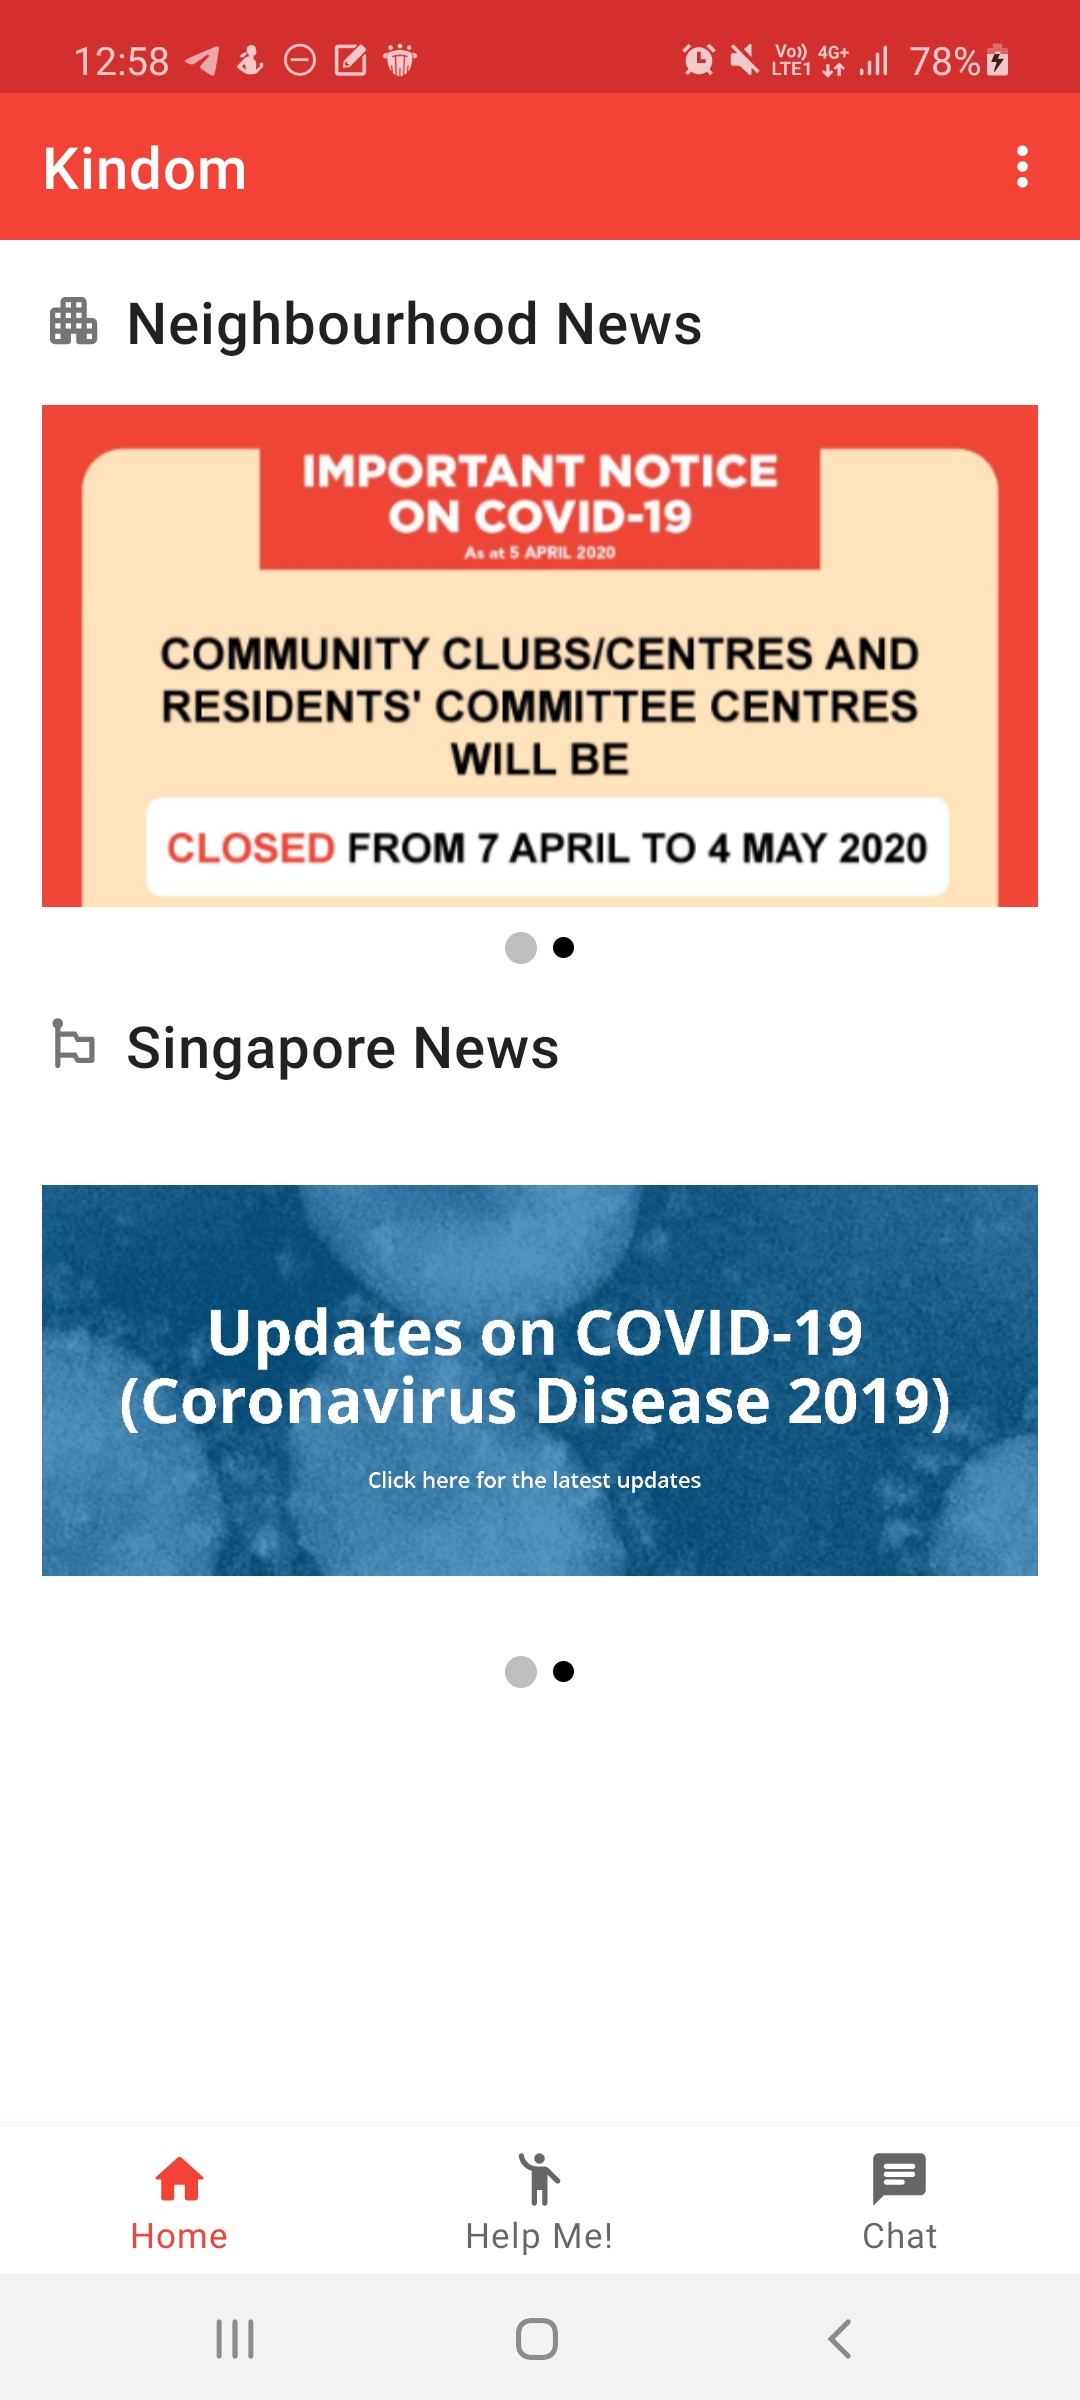
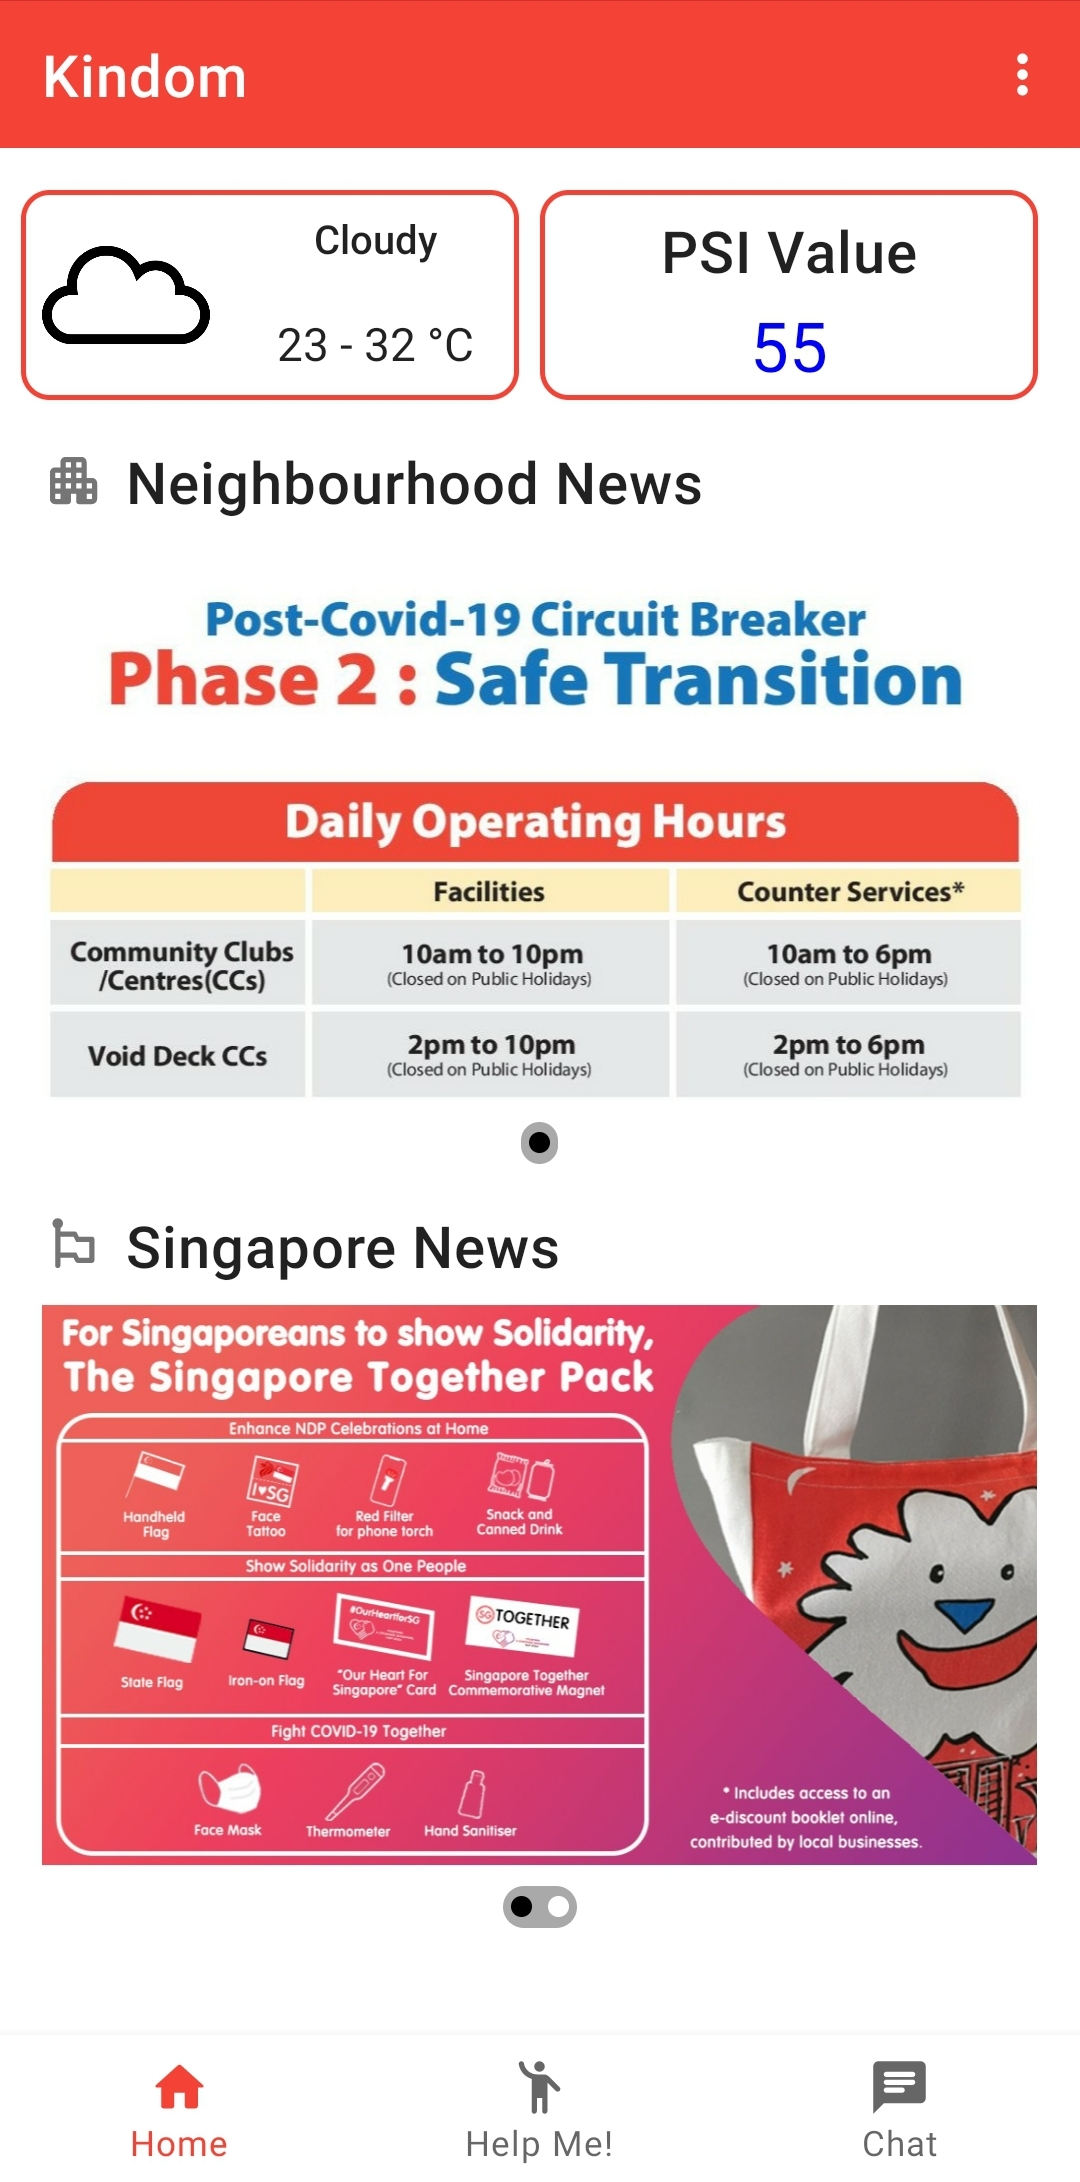
Edit README and screenshots

diff --git a/README.md b/README.md
@@ -9,17 +9,20 @@
 After a long hard day in school, you walk wearily to the lift lobby of your flat. As you and the other residents enter the lift, an eerie silence falls upon the four walls. Everyone is glued to their phone screens and the only sound audible is the whirring of the lift machinery. As you step home, you realise that you have forgotten to get the eggs your mum has tasked you to buy.  Dread takes over as you imagine another trip down the grocery store with long queues caused by the COVID-19 pandemic. Just then, you remember that Uncle Chen from next door has gone to the supermarket just as you left. Maybe he can help you get the eggs?
 
 **User stories**:
-1. As a helpful resident, I want to be able to assist my fellow neighbours in simple tasks.
-2. As an engaged citizen, I want to be kept updated on the happenings of my community.
-3. As an administrator, I want to be able to keep track of any disputes arising from the application and also push out timely announcements to all users.
+1. As a helpful resident, I want to be able to assist my fellow neighbours in simple tasks. The Help Me feature of the app allows users to request and offer help from other residents.
+2. As an engaged citizen, I want to be kept updated on the happenings of my community. The Home page of the app shows the news occurring in the neighbourhood and in Singapore.
+3. As an administrator, I want to be able to push out timely announcements to all users by adding / deleting news in the app and also keep track of any disputes arising from the application by managing reported Help Me posts.
 
 ## Features Developed
 
-#### 1. Register / Sign-in page
+#### 1. Registration / Sign-in
 
 When the user first launches the app, he/she is brought to the main page where the user can sign in with the text fields provided.
 
-<img src="https://github.com/SONGYI98/Kindom/blob/master/screenshots/1%20-%20Main%20%20Sign-in%20page.jpg" width="256"/>
+<details>
+  <summary>*View image of main page*</summary>
+  <img src="https://github.com/SONGYI98/Kindom/blob/master/screenshots/1%20-%20Main%20%20Sign-in%20page.jpg" width="256"/>
+</details>
 
 Alternatively, the user can click on the "Not registered yet? Click here!" to register an account with Kindom.
 
@@ -27,43 +30,76 @@ This brings the user to a 2-part registration process.
 
 The first part includes filling personal details of the user as shown below.
 
-<img src="https://github.com/SONGYI98/Kindom/blob/master/screenshots/2%20-%20Registartion%20Part%201.jpg" width="256"/>
+<details>
+  <summary>*View image of registration (part 1)*</summary>
+  <img src="https://github.com/SONGYI98/Kindom/blob/master/screenshots/2%20-%20Registartion%20Part%201.jpg" width="256"/>
+</details>
 
 The second part includes using an email and password for user identification.
 
-<img src="https://github.com/SONGYI98/Kindom/blob/master/screenshots/3%20-%20Registration%20Part%202.jpg" width="256"/>
+<details>
+  <summary>*View image of registration (part 2)*</summary>
+  <img src="https://github.com/SONGYI98/Kindom/blob/master/screenshots/3%20-%20Registration%20Part%202.jpg" width="256"/>
+</details>
 
-#### 2. Home (Announcements)
+#### 2. Home (News)
 
 A digital community notice board replaces the traditional ones found in the void decks of HDB flats. It provides updates on issues within the community (e.g. dengue cluster) and at the national level (e.g. COVID-19).
 
-The images can be scrolled (left and right) and a dot indicator indicates the position of the image the user is currently viewing.
+The images of the news can be scrolled (left and right) and a dot indicator indicates the position of the image the user is currently viewing.
 
-<img src="https://github.com/SONGYI98/Kindom/blob/master/screenshots/4%20-%20Home%20page.jpg" width="256"/>
+Weather and PSI information is also provided at the top of the screen based on the region the user is in (from the postal code inputted during registration).
 
-#### 3. Help Me! (Core feature)
+<details>
+  <summary>*View image of home page*</summary>
+  <img src="https://github.com/SONGYI98/Kindom/blob/master/screenshots/4%20-%20Home%20page.jpg" width="256"/>
+</details>
+
+#### 3. Help Me!
 
 This core feature provides a platform for neighbours to send in or accept requests for assistance in simple tasks (such as helping to receive delivery goods on one's behalf or buying takeaway meals for the elderly who may not want to venture far out for safety reasons).
 
-Upon clicking on the "Help Me!" button at the bottom navigation menu, the user is brought to a listing page. There are two types of listings - "All Listing" and "My Listing".
+Upon clicking on the "Help Me!" button at the bottom navigation menu, the user is brought to a listing page. There are two types of listings - "All Listing" and "My Listing". A toast message appears to inform users that they can swipe down to refresh the list.
 
 The All Listing tab shows all the listings from neighbours who are staying in the same RC as the user.
 
-A refresh floating action button at the bottom right side of the screen allows user to refresh the list for the latest posts.
+<details>
+  <summary>*View image of Help Me All Listing*</summary>
+  <img src="https://github.com/SONGYI98/Kindom/blob/master/screenshots/5%20-%20Help%20Me!%20page%20all%20listing.jpg" width="256"/>
+</details>
 
-<img src="https://github.com/SONGYI98/Kindom/blob/master/screenshots/5%20-%20Help%20Me!%20page%20all%20listing.jpg" width="256"/>
+Clicking on the details button allows the user to view detailed information of the Help Me! request. User can then offer help or chat with the person who posted the request to ask for more details.
 
-Clicking on details allow the user to show detailed information of the Help Me! request. User can then chat with the person who posted the request.
+<details>
+  <summary>*View image of a Help Me post details*</summary>
+  <img src="https://github.com/SONGYI98/Kindom/blob/master/screenshots/6%20-%20Help%20Me!%20request%20details.jpg" width="256"/>
+</details>
 
-<img src="https://github.com/SONGYI98/Kindom/blob/master/screenshots/6%20-%20Help%20Me!%20request%20details.jpg" width="256"/>
+A toast message appears at the bottom of the screen if the user clicks on the offer help button for the first time or repeatedly.
+
+<details>
+  <summary>*View toast message*</summary>
+  <img src="https://github.com/SONGYI98/Kindom/blob/master/screenshots/7%20-%20Toast%20message.jpg" width="256"/>
+</details>
+
+<details>
+  <summary>*View toast message when user repeatedly clicks on Offer Help*</summary>
+  <img src="https://github.com/SONGYI98/Kindom/blob/master/screenshots/8%20-%20Toast%20message%20(repeated).jpg" width="256"/>
+</details>
 
 The My Listing tab shows the user's listings. User can add a new Help Me! request or edit / delete existing requests.
 
-<img src="https://github.com/SONGYI98/Kindom/blob/master/screenshots/7%20-%20Help%20Me!%20page%20my%20listing.jpg" width="256"/>
+<details>
+  <summary>*View image of Help Me My Listing*</summary>
+  <img src="https://github.com/SONGYI98/Kindom/blob/master/screenshots/9%20-%20Help%20Me!%20page%20my%20listing.jpg" width="256"/>
+</details>
 
 An add floating action button at the bottom right side of the screen allows user to add a Help Me! request. Adding a request requires the user to fill up information about the request.
 
-<img src="https://github.com/SONGYI98/Kindom/blob/master/screenshots/8%20-%20Help%20Me!%20add%20request.jpg" width="256"/>
+<details>
+  <summary>*View image of adding a Help Me post*</summary>
+  <img src="https://github.com/SONGYI98/Kindom/blob/master/screenshots/10%20-%20Help%20Me!%20add%20post.jpg" width="256"/>
+</details>
 
 #### 4. Chat
 
@@ -71,38 +107,85 @@ The chat feature allows neighbours to communicate with one another.
 
 Upon clicking on the "Chat" button at the bottom navigation menu, the user is brought to a list of existing chat with other neighbours. From here, users can view the chat conversation history or send messages and/or media.
 
-<img src="https://github.com/SONGYI98/Kindom/blob/master/screenshots/9%20-%20Chat%20history.jpg" width="256"/>
+<details>
+  <summary>*View image chat list*</summary>
+  <img src="https://github.com/SONGYI98/Kindom/blob/master/screenshots/11%20-%20Chat%20list.jpg" width="256"/>
+</details>
 
-#### 5. Others
+#### 5. Admin
+
+If a person signs up as an admin, he/she is granted additional access privileges.
+
+In the home page, an add floating action button at the bottom right side of the screen allows admin to add a news.
+
+<details>
+  <summary>*View image of admin's home page*</summary>
+  <img src="https://github.com/SONGYI98/Kindom/blob/master/screenshots/11%20-%20Chat%20list.jpg" width="256"/>
+</details>
+
+<details>
+  <summary>*View image of admin adding a news*</summary>
+  <img src="https://github.com/SONGYI98/Kindom/blob/master/screenshots/11%20-%20Chat%20list.jpg" width="256"/>
+</details>
+
+#### 6. Others
 
 When the user is navigating between any of the three buttons in the bottom navigation menu, a menu icon is consistently shown in the top app bar. Clicking on the menu options shows a "My Profile" and "Sign Out" option.
 
 "My Profile" allows users to view his own profile.
 
-<img src="https://github.com/SONGYI98/Kindom/blob/master/screenshots/10%20-%20My%20Profile%20page.jpg" width="256"/>
+<details>
+  <summary>*View image of My Profile page*</summary>
+  <img src="https://github.com/SONGYI98/Kindom/blob/master/screenshots/14%20-%20My%20Profile%20page.jpg" width="256"/>
+</details>
 
 "Sign Out" signs the user out and brings him/her to the main screen.
 
-## Future Developments
+## Development Stage
 
-For Milestone 3 of Orbital, we are implementing more edge features as stated below:
+For **Milestone 2** of Orbital, we have implemented core features as stated below:
+
+<details>
+  <summary>Click to expand!</summary>
+
+1. **Home page**
+
+Users can view pre-loaded news.
+
+2. **Help Me**
+
+Users can add / delete / view Help Me posts.
+
+3. **Chat**
+
+Users can chat with other users.
+
+</details>
+
+For **Milestone 3** of Orbital, we have implemented more edge features as stated below:
+
+<details>
+  <summary>Click to expand!</summary>
 
 1. **Admin features**
 
 If the user is registered as an admin, he/she has the abilities to
-a. Add notices in the Home section
-b. Monitor and delete Help Me requests of any users in the same RC as the admin
-c. Chat with users from the same RC as the admin to resolve technical issues
+a. Add news in the Home section.
+b. Monitor and delete Help Me requests of any users in the same RC as the admin.
 
-2. **Improve Home page**
+2. **Improved Home page**
 
-Weather information such as the PSI level will be shown.
+Weather information such as the PSI level is shown.
 
-3. **Quota system for Help Me!**
+3. **Help Me offer system**
 
-This encourages users to not just post Help Me! requests but to accept requests from neighbours.
+This allows users to offer help and for the poster to manage the list of people offering their assistance.
 
-4. **Miscellaneous visual polish**
+4. **Improved Chat page**
+
+5. **Miscellaneous visual polish and bug fixes**
+
+</details>
 
 ## Problems Encountered
 
@@ -125,6 +208,10 @@ As such, we decided to include the RC attribute and thereby nest the Help Me! re
 It was initially intended to automatically retrieve the RC the user is under based on his/her postal code. However, there exists no API for such a query and the only available way is to go on a website and manually key in information. However, it is too difficult to try and "automate" the process of going on a particular website and doing text mining on the result to retrieve the RC.
 
 As such, we decided to let users input their RCs manually during the registration process. data.gov provides a dataset on the list of RCs in geoJson and KML format. The geoJson format was unfriendly as the RC name is nested inside HTML code, making it more difficult to parse. We then extracted the list of RCs in the KML file using Excel formulae instead.
+
+4. **Performing automated UI tests**
+
+It was initially intended to include Espresso framework for the UI test. However, due to the large amount of data that is fetched from the Internet (e.g. weather, PSI data) and Firebase (e.g. Help Me posts, chats), it was extremely difficult to write a large-scale test for the UI test. Instead manual UI testing is done instead.
 
 ## Testing
 
